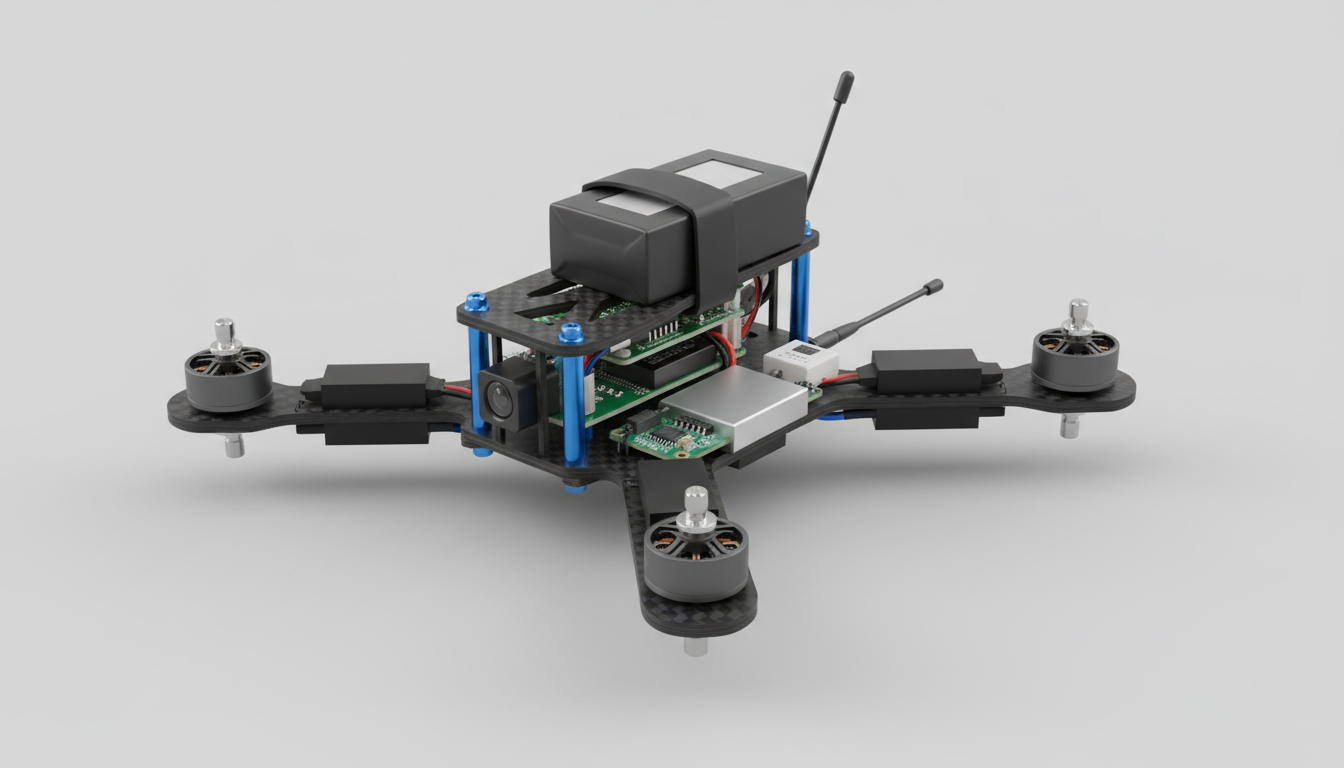
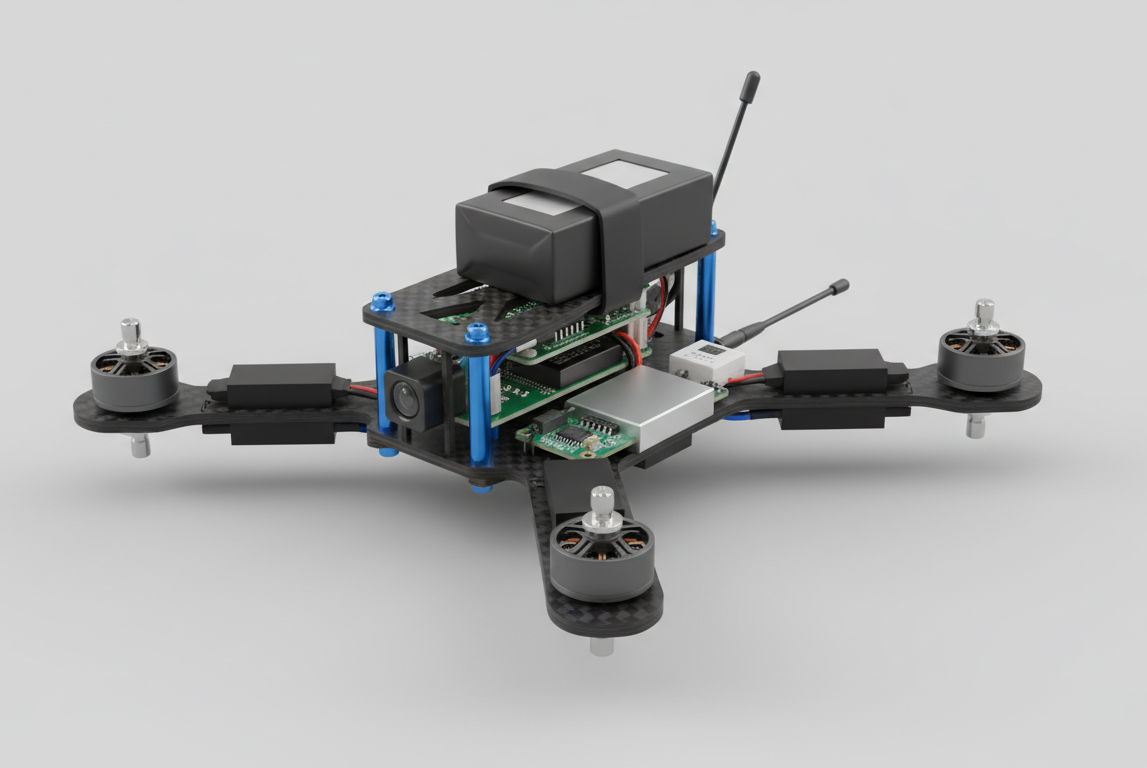
new changes

diff --git a/index.html b/index.html
@@ -251,17 +251,18 @@
           </div>
         </div>
 
-        <!-- Project 3: Criminal Statistics -->
-        <div class="project-container reveal" id="project3-container">
+        <!-- Project 5: Safe Street -->
+        <div class="project-container reveal" id="project5-container">
           <div class="project-header">
             <ul>
-              <li class="proyect-language">PHP</li>
-              <li class="proyect-language">MySQL</li>
-              <li class="proyect-language">JS</li>
+              <li class="proyect-language wip-badge">In Progress</li>
+              <li class="proyect-language">Spring Boot</li>
+              <li class="proyect-language">PostgreSQL</li>
+              <li class="proyect-language">Microservices</li>
             </ul>
             <div class="project-actions">
-              <a href="https://github.com/alexricardo02/webtechnologien-pm-a-team-9.git" target="_blank"
-                class="btn-icon" title="View Code">
+              <a href="https://github.com/alexricardo02/safe-street-backend.git" target="_blank" class="btn-icon"
+                title="View Code">
                 <svg xmlns="http://www.w3.org/2000/svg" width="20" height="20" viewBox="0 0 24 24" fill="none"
                   stroke="currentColor" stroke-width="2" stroke-linecap="round" stroke-linejoin="round">
                   <path
@@ -272,17 +273,18 @@
             </div>
           </div>
           <div class="project-description">
-            <h3>Criminal Statistics Web Dashboard</h3>
+            <h3>Safe Street</h3>
             <p class="project-description-text">
-              Collaborative SCRUM project featuring interactive data
-              visualization with a robust real-time MySQL database
-              architecture, seamlessly integrated with an interactive backend
-              for processing large datasets efficiently.
+              Building a citywide incident reporting platform engineered for
+              robust system design, covering categories from theft to home
+              invasions. The architecture focuses on scalable, reliable data
+              ingestion and geospatial querying, backed by a structured
+              PostgreSQL schema and a service-oriented backend designed to
+              handle real-time reports at scale.
             </p>
           </div>
           <div class="project-fotos">
-            <img class="single-project-foto" src="./dashboard.png" alt="Criminal Statistics Dashboard"
-              id="accident-foto" />
+            <img class="single-project-foto" src="./SafeStreet.png" alt="Safe Street App" />
           </div>
         </div>
 
@@ -318,6 +320,41 @@
           </div>
         </div>
 
+        <!-- Project 3: Criminal Statistics -->
+        <div class="project-container reveal  extra-project" id="project3-container"  style="display: none">
+          <div class="project-header">
+            <ul>
+              <li class="proyect-language">PHP</li>
+              <li class="proyect-language">MySQL</li>
+              <li class="proyect-language">JS</li>
+            </ul>
+            <div class="project-actions">
+              <a href="https://github.com/alexricardo02/webtechnologien-pm-a-team-9.git" target="_blank"
+                class="btn-icon" title="View Code">
+                <svg xmlns="http://www.w3.org/2000/svg" width="20" height="20" viewBox="0 0 24 24" fill="none"
+                  stroke="currentColor" stroke-width="2" stroke-linecap="round" stroke-linejoin="round">
+                  <path
+                    d="M9 19c-5 1.5-5-2.5-7-3m14 6v-3.87a3.37 3.37 0 0 0-.94-2.61c3.14-.35 6.44-1.54 6.44-7A5.44 5.44 0 0 0 20 4.77 5.07 5.07 0 0 0 19.91 1S18.73.65 16 2.48a13.38 13.38 0 0 0-7 0C6.27.65 5.09 1 5.09 1A5.07 5.07 0 0 0 5 4.77a5.44 5.44 0 0 0-1.5 3.78c0 5.42 3.3 6.61 6.44 7A3.37 3.37 0 0 0 9 18.13V22">
+                  </path>
+                </svg>
+              </a>
+            </div>
+          </div>
+          <div class="project-description">
+            <h3>Criminal Statistics Web Dashboard</h3>
+            <p class="project-description-text">
+              Collaborative SCRUM project featuring interactive data
+              visualization with a robust real-time MySQL database
+              architecture, seamlessly integrated with an interactive backend
+              for processing large datasets efficiently.
+            </p>
+          </div>
+          <div class="project-fotos">
+            <img class="single-project-foto" src="./dashboard.png" alt="Criminal Statistics Dashboard"
+              id="accident-foto" />
+          </div>
+        </div>
+        
         <div class="project-container reveal extra-project" id="gloo-container" style="display: none">
           <div class="project-header">
             <ul>
@@ -353,6 +390,7 @@
             <img class="single-project-foto" src="gloo.png" alt="GLOO App" />
           </div>
         </div>
+        
       </div>
 
       <div style="text-align: center; margin-top: 40px; width: 100%">
